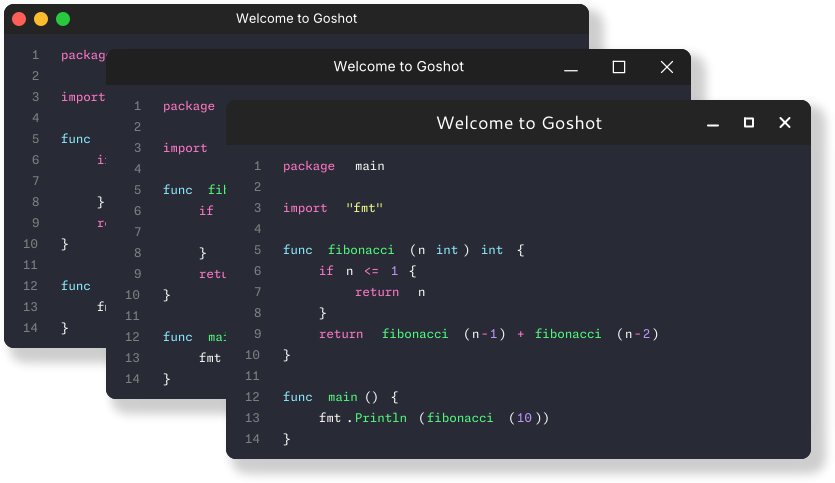
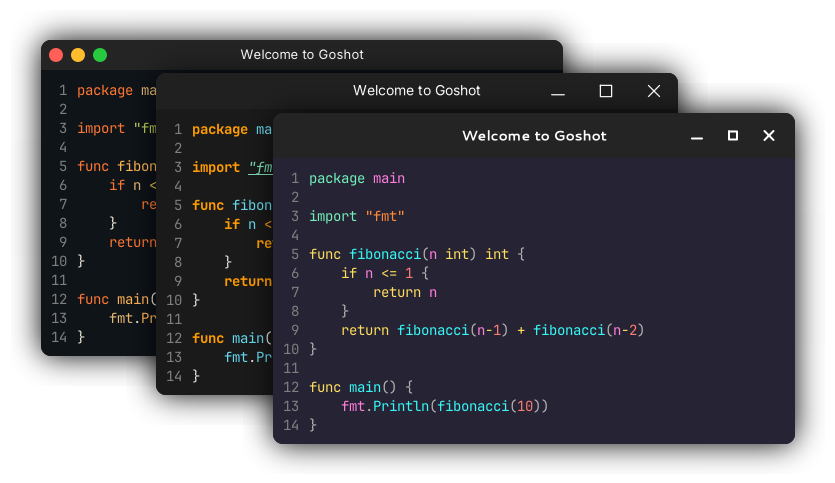
chore(example.png): update example image to reflect recent changes in code examples fix(main.go): correct import statement formatting and update font name to use Nerd Font for better compatibility

diff --git a/cmd/examples/05_complete/main.go b/cmd/examples/05_complete/main.go
@@ -17,10 +17,10 @@ func main() {
 	// Simple code example
 	input := `package main
 
-import (
+import "(
 	"fmt"
 	"strings"
-)
+)"
 
 func greet(name string) string {
 	return fmt.Sprintf("Hello, %s!", strings.TrimSpace(name))
@@ -131,7 +131,7 @@ func main() {
 		WithLineNumbers(true).
 		WithLineRange(1, 17).
 		WithLineHighlightRange(8, 10).
-		WithFontName("JetBrainsMono", &fonts.FontStyle{
+		WithFontName("JetBrainsMonoNerdFont", &fonts.FontStyle{
 			Weight:  fonts.WeightRegular,
 			Stretch: fonts.StretchNormal,
 		}).
